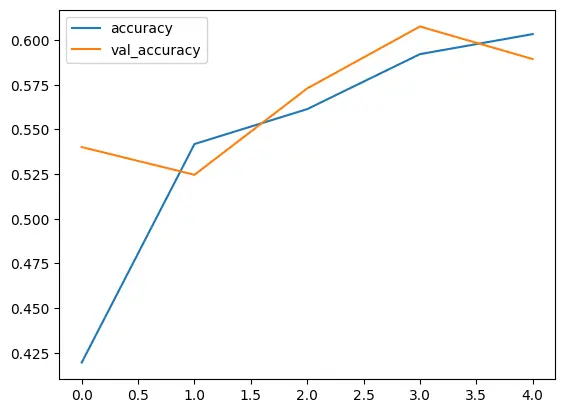
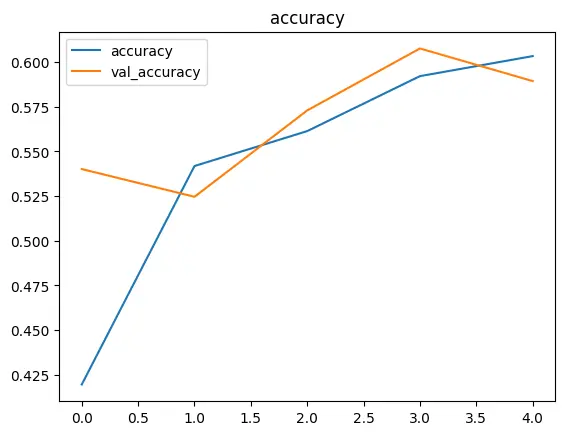
Add title to the plots

diff --git a/docs/3-plot-and-tensorboard/index.md b/docs/3-plot-and-tensorboard/index.md
@@ -152,11 +152,13 @@ So, let's plot the `loss` and `accuracy` separately.
 
 ```python
 plt.figure()
+plt.title("loss")
 plt.plot(history.history["loss"])
 plt.plot(history.history["val_loss"])
 plt.legend(["loss", "val_loss"])
 
 plt.figure()
+plt.title("accuracy")
 plt.plot(history.history["accuracy"])
 plt.plot(history.history["val_accuracy"])
 plt.legend(["accuracy", "val_accuracy"])
@@ -171,6 +173,10 @@ But for the validation subset, we had some ups and downs which is natural.
 We are going to learn how to analyze them in the upcoming tutorials.
 
 > Source: https://www.tensorflow.org/api_docs/python/tf/keras/callbacks/History
+
+## TensorBoard
+
+
 
 ## Your turn
 
